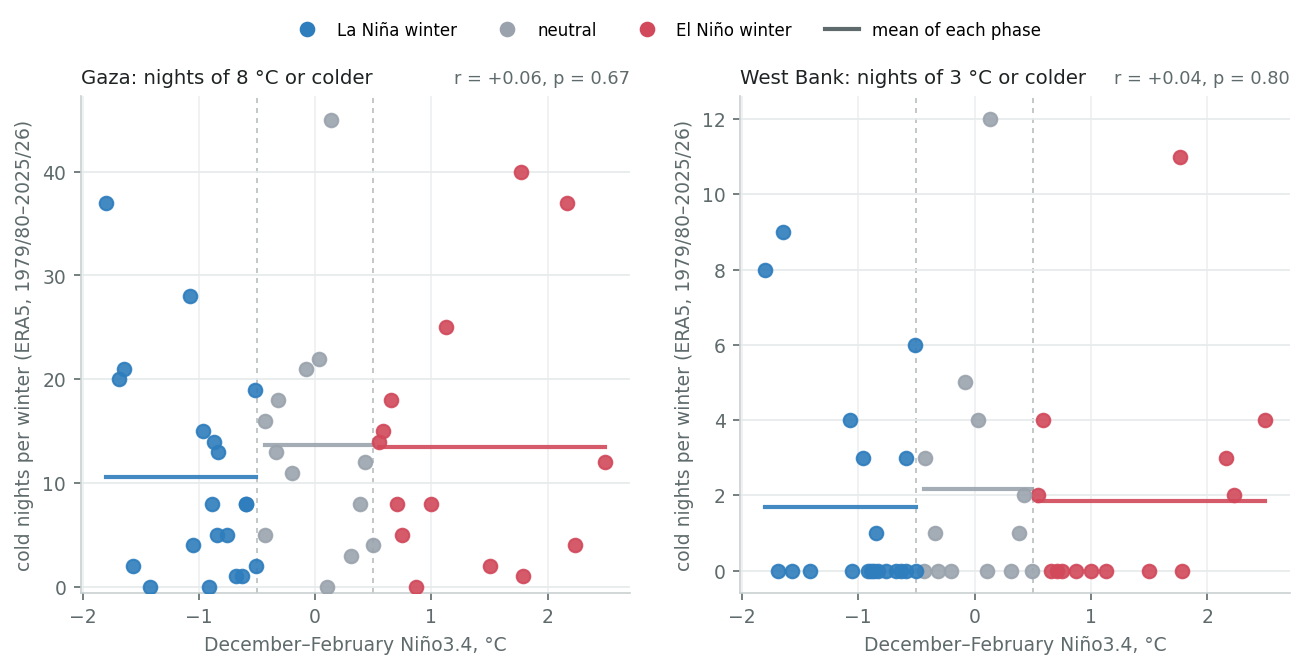
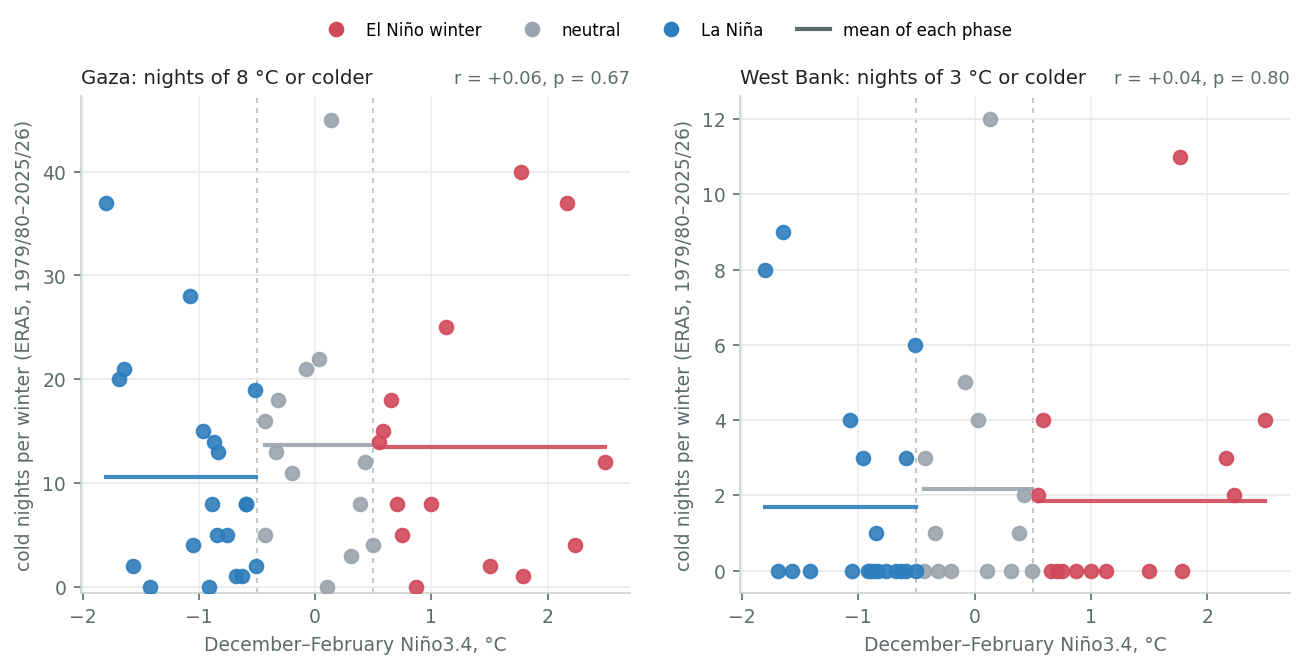
Storms, cold snaps and counts by ENSO phase: fixes from review
- a West Bank entry that records no damage no longer marks its winter as having an impact
- the cold paragraph says El Niño is no guide to cold snaps, and that warmer winters have had
  fewer cold nights, instead of claiming the warm forecast says nothing
- a difference on one of three storm sizes at p 0.01-0.05 is called suggestive, and the note says
  ERA5's winters include IMERG's
- counts by winter: six counted winters are too few for a test, said plainly without a p-value
- the starred event row quotes ERA5 over the event, like its column

Changed region(s): [[0.2147, 0.0299, 0.7975, 0.0598]]

diff --git a/docs/enso/gaza-west-bank/index.html b/docs/enso/gaza-west-bank/index.html
@@ -318,8 +318,8 @@ h3.area{font-size:17px;margin:28px 0 8px;padding:2px 0 2px 10px;border-left:4px 
 </tbody></table></div>
 <p class="small">Means per winter, by ENSO phase. The records differ in level: ERA5 spreads rain over 25 km cells and understates heavy days; IMERG is satellite-only; Jerusalem is one hill-town gauge. Compare phases within a record, not across records.</p>
 <div class="areahead"><h3 class="area" id="cold-daily">Both areas: cold snaps and El Niño<a class="anchor" href="#cold-daily" aria-hidden="true" tabindex="-1"></a></h3><p class="alt">Also in this section: <a href="#gaza-daily">Gaza</a> · <a href="#west-bank-daily">West Bank</a></p></div>
-<p>Cold snaps show no link to El Niño in either area. Since 1979 the number of cold nights in a winter does not follow winter Niño3.4: Gaza, nights of 8 °C or colder, r = +0.06 (p = 0.67); West Bank, nights of 3 °C or colder, r = +0.04 (p = 0.80). Nor do the winter's coldest night, the number of cold snaps of two nights or more, or the night count two degrees either side of each threshold (correlations between -0.09 and +0.13). A warm-winter forecast therefore says nothing about whether cold snaps will come.</p>
-<figure><img src="cold_enso.png" alt="Cold nights per winter against winter Niño3.4, Gaza and the West Bank"><figcaption>Each dot is one winter, 1979/80–2025/26: nights whose ERA5 minimum over the area was at or below the threshold, against that winter's Niño3.4. <details class="note"><summary>More about this figure</summary><span>Lines: the mean of each phase (Gaza 13.5 in El Niño winters, 13.7 neutral, 10.6 La Niña; West Bank 1.9 in El Niño winters, 2.2 neutral, 1.7 La Niña). ERA5 is an area mean and runs warmer than the coldest places.</span></details></figcaption></figure>
+<p>Cold snaps show no link to El Niño in either area. Since 1979/80 the number of cold nights in a winter does not follow winter Niño3.4: Gaza, nights of 8 °C or colder, r = +0.06 (p = 0.67); West Bank, nights of 3 °C or colder, r = +0.04 (p = 0.80). Nor do the winter's coldest night, the number of cold snaps of two nights or more, or the night count two degrees either side of each threshold (correlations between -0.09 and +0.13). El Niño is therefore no guide to cold snaps. The forecasts' warm signal is a separate matter: warmer winters have had fewer cold nights (r = -0.86 for Gaza and -0.64 for the West Bank between a winter's cold nights and its December–February mean night temperature). Cold deaths, though, have followed shelter more than temperature (section 5).</p>
+<figure><img src="cold_enso.png" alt="Cold nights per winter against winter Niño3.4, Gaza and the West Bank"><figcaption>Each dot is one winter, 1979/80–2025/26: nights whose ERA5 minimum over the area was at or below the threshold, against that winter's Niño3.4. <details class="note"><summary>More about this figure</summary><span>Lines: the mean of each phase (Gaza 13.5 in El Niño winters, 13.7 neutral, 10.6 La Niña; West Bank 1.9 in El Niño winters, 2.2 neutral, 1.7 La Niña). ERA5 is an area mean and runs warmer than the coldest places; Gaza's cells are partly sea and rarely reach 5 °C, hence its higher threshold.</span></details></figcaption></figure>
 <h2 id="impacts">4. What winter weather does<a class="anchor" href="#impacts" aria-hidden="true" tabindex="-1"></a></h2>
 <div class="areahead"><h3 class="area" id="gaza-impacts">Gaza<a class="anchor" href="#gaza-impacts" aria-hidden="true" tabindex="-1"></a></h3><p class="alt">Also in this section: <a href="#west-bank-impacts">West Bank</a></p></div>
 <p>As of September 2026 about 1.7 million people live in roughly 1,600 displacement sites, and 65 per cent of households live in tents or makeshift shelters. Last winter 71 per cent of households were flooded at least once, and 83 per cent of those in tents (Shelter Cluster). The inter-agency flood-exposure outlook for 2026/27 puts 989 of 1,764 assessed sites in medium- or high-risk areas, and 451 sites holding about 464,000 people in high-risk areas (IOM, Site Management Cluster and Shelter Cluster, September 2026; OCHA). That exposure map uses terrain and past flooding, not rainfall. No published analysis links rainfall amounts to tent flooding in Gaza, and no rain gauge inside Gaza reports internationally. The table below is a first pass at that link: every dated winter impact in UN reporting since October 2023, with the weather over Gaza on those days.</p>
@@ -365,8 +365,8 @@ h3.area{font-size:17px;margin:28px 0 8px;padding:2px 0 2px 10px;border-left:4px 
 </tbody></table></div>
 
 <h4 id="gaza-impacts-counts-by-winter-and-enso-phase">Counts by winter and ENSO phase<a class="anchor" href="#gaza-impacts-counts-by-winter-and-enso-phase" aria-hidden="true" tabindex="-1"></a></h4>
-<figure><img src="gaza/winter_counts.png" alt="People reported affected by winter weather in Gaza, by winter and ENSO phase"><figcaption>People reported affected in each winter, coloured by the winter's ENSO phase; the line on 2025/26 reaches the Shelter Cluster's monthly snapshots. Counts and sources are in the tables of section 5. The two tallest bars are La Niña winters because they come after October 2023, not because of the phase.</figcaption></figure>
-<p>The counts do not separate by ENSO phase. Before October 2023, the three counted El Niño winters (20, 501 and 800 people) and the three counted neutral winters (112, 560 and 21,000 people) cannot be told apart (p = 0.70 for El Niño against the rest), and no La Niña winter has a count. Since October 2023 both counted winters were La Niña winters, and the El Niño winter of 2023/24 has reports but no number. An average per phase would only restate the change since October 2023, so none is given.</p>
+<figure><img src="gaza/winter_counts.png" alt="People reported affected by winter weather in Gaza, by winter and ENSO phase"><figcaption>People reported affected in each winter, coloured by the winter's ENSO phase; the line on 2025/26 reaches the Shelter Cluster's monthly snapshots. Counts and sources are in the tables of section 5. The two tallest bars are La Niña winters because they fall in the period since October 2023, not because of the phase.</figcaption></figure>
+<p>The counts do not separate by ENSO phase. Before October 2023, the three counted El Niño winters (20, 501 and 800 people) and the three counted neutral winters (110, 560 and 21,000 people) overlap, and six counted winters are too few for any test to separate them; no La Niña winter has a count. Since October 2023 both counted winters were La Niña winters, and the El Niño winter of 2023/24 has reports but no number. An average per phase would only restate the change since October 2023, so none is given.</p>
 <div class="areahead"><h3 class="area" id="west-bank-impacts">West Bank<a class="anchor" href="#west-bank-impacts" aria-hidden="true" tabindex="-1"></a></h3><p class="alt">Also in this section: <a href="#gaza-impacts">Gaza</a></p></div>
 <p>Winter weather does much less harm in the West Bank than in Gaza, and what it does is poorly counted. The record has two large events from before October 2023:</p>
 <ul>
@@ -409,7 +409,7 @@ h3.area{font-size:17px;margin:28px 0 8px;padding:2px 0 2px 10px;border-left:4px 
 
 <h4 id="west-bank-impacts-counts-by-winter-and-enso-phase">Counts by winter and ENSO phase<a class="anchor" href="#west-bank-impacts-counts-by-winter-and-enso-phase" aria-hidden="true" tabindex="-1"></a></h4>
 <figure><img src="west-bank/winter_counts.png" alt="People reported affected by winter weather in the West Bank, by winter and ENSO phase"><figcaption>Every count in the tables above, one bar per winter, coloured by the winter's ENSO phase. The counts are of different kinds, named on each bar: people displaced (OCHA), families assisted by the Palestine Red Crescent Society (IFRC), tents and shelters damaged (OCHA; the line reaches the Shelter Cluster's count), and one media count. <details class="note"><summary>More about this figure</summary><span>Households at 4.8 people (PCBS census 2017).</span></details></figcaption></figure>
-<p>The counts do not separate by ENSO phase. The two counted El Niño winters (48 and 2,800 people), the three counted neutral winters (300, 640 and 5,200 people) and the one counted La Niña winter (300 people) cannot be told apart (p = 0.81 for El Niño against the rest). Six winters have any count, of different kinds and spread over all three phases: too few and too mixed to test. No average per phase is given.</p>
+<p>The counts do not separate by ENSO phase. The two counted El Niño winters (48 and 2,800 people), the three counted neutral winters (300, 640 and 5,200 people) and the one counted La Niña winter (300 people) overlap, and six counted winters are too few for any test to separate them. The counts are also of different kinds, so no average per phase is given.</p>
 <h2 id="range">5. What this winter could bring<a class="anchor" href="#range" aria-hidden="true" tabindex="-1"></a></h2>
 <div class="areahead"><h3 class="area" id="gaza-range">Gaza<a class="anchor" href="#gaza-range" aria-hidden="true" tabindex="-1"></a></h3><p class="alt">Also in this section: <a href="#west-bank-range">West Bank</a></p></div><p class="inpart">In this part: <span><a href="#gaza-range-how-many-storms-a-winter-brings">How many storms a winter brings</a> ·</span> <span><a href="#gaza-range-when-the-first-storm-of-20-mm-or-more-comes">When the first storm of 20 mm or more comes</a> ·</span> <span><a href="#gaza-range-how-big-a-week-of-rain-is">How big a week of rain is</a> ·</span> <span><a href="#gaza-range-what-one-storm-of-each-kind-did-last-winter">What one storm of each kind did last winter</a> ·</span> <span><a href="#gaza-range-last-winter-in-numbers">Last winter in numbers</a> ·</span> <span><a href="#gaza-range-exposure-then-and-now">Exposure then and now</a> ·</span> <span><a href="#gaza-range-deaths">Deaths</a> ·</span> <span><a href="#gaza-range-rain-and-reported-impact-winter-by-winter">Rain and reported impact, winter by winter</a> ·</span> <span><a href="#gaza-range-storm-for-storm-before-and-since-october-2023">Storm for storm, before and since October 2023</a> ·</span> <span><a href="#gaza-range-what-the-october-forecast-implies-for-octoberdecember">What the October forecast implies for October–December</a> ·</span> <span><a href="#gaza-range-scenarios-for-winter-2026-27">Scenarios for winter 2026/27</a></span></p>
 <p>The question for planners is what this winter could do. The record cannot answer that with a forecast: there is one well-documented winter, reporting that changed every year, and a population whose exposure keeps changing. What it can do is bound the answer. This section separates the weather (how many storms, how big, how early, and what El Niño does or does not change) from what each kind of storm did last winter, and then uses last winter as two reference points. It ends with the longer record: every winter since 2008/09 on one row, the same sizes of storm before and since October 2023, and three scenarios for this winter scaled from last winter's counts.</p>
@@ -417,13 +417,13 @@ h3.area{font-size:17px;margin:28px 0 8px;padding:2px 0 2px 10px;border-left:4px 
 <h4 id="gaza-range-how-many-storms-a-winter-brings">How many storms a winter brings<a class="anchor" href="#gaza-range-how-many-storms-a-winter-brings" aria-hidden="true" tabindex="-1"></a></h4>
 <p>Over the 28 winters of IMERG (1998/99–2025/26), a Gaza winter brought on average 6 storms whose wettest day reached 10 mm (in most winters 4–8), 3 that reached 20 mm (1–4), and a storm of 50 mm or more, like Byron, in 50 per cent of winters. El Niño winters brought slightly more of the smaller storms (7 of 10 mm or more, against 5 in La Niña winters) but not more of the largest: 4 of 8 El Niño winters had a storm of 50 mm or more, against 6 of 14 La Niña winters. Last winter, with 7, 4 and 1, was among the more active.</p>
 <figure><img src="gaza/storm_tiers.png" alt="Rain storms per winter by size"><figcaption>A storm is a run of rainy days (1 mm or more), merged across lulls of up to two dry days, sized by its wettest day over Gaza (IMERG, area-weighted). <details class="note"><summary>More about this figure</summary><span>Byron, 8–17 December 2025, counts as one storm (rain from 8 December, the storm proper from 10 December). ERA5 is not used for the largest storms: its 25 km cells smooth them so much that it gives Byron a wettest day of 18 mm, which would not place it among the record's 14 largest storms.</span></details></figcaption></figure>
-<p>Counted by a storm's total rain, El Niño winters have brought 2–7 storms of 25 mm or more (4.6 on average), against 2–6 in neutral winters (4.5) and 1–5 in La Niña winters (3.3). On IMERG's eight El Niño winters the difference from the other 20 is within chance (p = 0.17); in ERA5 since 1979, with 14 El Niño winters and thresholds matched to IMERG's, the gap is 1.6 storms a winter and is unlikely to be chance (p &lt; 0.01). The bigger storms do not follow the phase: 50 mm or more came 0–2 times in an El Niño winter and 0–3 in the others, and a storm of 100 mm or more came in 3 of 8 El Niño winters and 6 of 20 others. These are past ranges, not a forecast.</p>
+<p>Counted by a storm's total rain, El Niño winters have brought 2–7 storms of 25 mm or more (4.6 on average), against 2–6 in neutral winters (4.5) and 1–5 in La Niña winters (3.3). On IMERG's eight El Niño winters the difference from the other 20 is within chance (p = 0.17); in ERA5 since 1979/80, with 14 El Niño winters and thresholds matched to IMERG's, the gap is 1.6 storms a winter and is unlikely to be chance (p &lt; 0.01). The bigger storms do not follow the phase: 50 mm or more came 0–2 times in an El Niño winter and 0–3 in the others, and a storm of 100 mm or more came in 3 of 8 El Niño winters and 6 of 20 others. These are past ranges, not a forecast.</p>
 <div class="tscroll"><table><thead><tr><th>Storms per winter with a total of</th><th class="num">El Niño<br><span class="small">8 winters</span></th><th class="num">Neutral<br><span class="small">6 winters</span></th><th class="num">La Niña<br><span class="small">14 winters</span></th><th class="num">El Niño against the rest<br><span class="small">IMERG · ERA5</span></th></tr></thead><tbody>
 <tr><td>25 mm or more</td><td class="num">2–7 <span class="small">(mean 4.6)</span></td><td class="num">2–6 <span class="small">(mean 4.5)</span></td><td class="num">1–5 <span class="small">(mean 3.3)</span></td><td class="num">p = 0.17 · p &lt; 0.01</td></tr>
 <tr><td>50 mm or more</td><td class="num">0–2 <span class="small">(mean 1.4)</span></td><td class="num">1–3 <span class="small">(mean 2.2)</span></td><td class="num">0–3 <span class="small">(mean 1.1)</span></td><td class="num">p = 0.96 · p = 0.15</td></tr>
 <tr><td>100 mm or more</td><td class="num">0–1 <span class="small">(mean 0.4)</span></td><td class="num">0–1 <span class="small">(mean 0.3)</span></td><td class="num">0–1 <span class="small">(mean 0.3)</span></td><td class="num">p = 0.73 · p = 0.44</td></tr>
 </tbody></table></div>
-<p class="small">Fewest to most storms per winter, IMERG 1998/99–2025/26.</p><details class="note"><summary>Notes and method</summary><p class="small">A storm is a run of rainy days as defined above, here sized by its total rain over Gaza. The last column tests El Niño winters against all others (Mann–Whitney): first on IMERG, then on ERA5 1979/80–2025/26 with thresholds that give the same number of storms as IMERG's over the shared years (17, 39, 61 mm).</p></details>
+<p class="small">Fewest to most storms per winter, IMERG 1998/99–2025/26.</p><details class="note"><summary>Notes and method</summary><p class="small">A storm is a run of rainy days as defined above, here sized by its total rain over Gaza. The last column tests El Niño winters against all others (Mann–Whitney): first on IMERG, then on ERA5 1979/80–2025/26 with thresholds that give the same number of storms as IMERG's over the shared years (17, 39, 61 mm); that equalizes the counts, not the storms themselves. ERA5's winters include IMERG's, so the two tests are not independent.</p></details>
 <h4 id="gaza-range-when-the-first-storm-of-20-mm-or-more-comes">When the first storm of 20 mm or more comes<a class="anchor" href="#gaza-range-when-the-first-storm-of-20-mm-or-more-comes" aria-hidden="true" tabindex="-1"></a></h4>
 <p>This is where El Niño may matter, though not by much more than chance on eight winters. In 5 of the 8 El Niño winters of the IMERG record, the first storm of 20 mm or more came before 1 December, against 12 of 28 winters overall, and the forecasts put this year's wet anomaly in October–December. Damage does not wait for a big storm, though. In each of the last three winters the first weather damage was reported in mid to late November (13–14 November 2023, 24–25 November 2024, 14–15 November 2025), and in two of them that came before the winter's first 20 mm storm. Last winter's first storm, with 22 mm, damaged about 13,000 tents.</p>
 
@@ -529,7 +529,7 @@ h3.area{font-size:17px;margin:28px 0 8px;padding:2px 0 2px 10px;border-left:4px 
 <tr><td style="white-space:nowrap">14 Mar 2026</td><td>rain, wind</td><td class="num" style="white-space:nowrap">2 mm</td><td class="num" style="white-space:nowrap">about 4,300</td><td class="small">894 households in displacement sites after a sandstorm and strong winds, Site Management Cluster</td><td class="small" style="white-space:nowrap"><a href="https://www.ochaopt.org/content/humanitarian-situation-report-19-march-2026">OCHA Humanitarian Situation Report, 19 Mar 2026</a></td></tr>
 <tr><td style="white-space:nowrap">25–26 Mar 2026</td><td>rain</td><td class="num" style="white-space:nowrap">26 mm</td><td class="num" style="white-space:nowrap">3,000</td><td class="small">more than 3,000 displaced people, Site Management Cluster</td><td class="small" style="white-space:nowrap"><a href="https://www.ochaopt.org/content/humanitarian-situation-report-2-april-2026">OCHA Humanitarian Situation Report, 2 Apr 2026</a></td></tr>
 </tbody></table></div>
-<p class="small">“About”: the source gives households or families, converted at 5.6 people before October 2023 and 4.8 since.</p><details class="note"><summary>Notes and method</summary><p class="small">Rain: IMERG over Gaza, from the day before the event to its last day. * IMERG missed this storm's rain: ERA5 has 12 mm. Wind and cold are not plotted: ERA5's area-mean wind and night minimum do not resolve the gusts and the cold in tents that the reports describe; the hazard column is from the reports. Events reported without a number, and counts of assistance delivered with no rain date, are in the tables of section 4 but not here.</p></details>
+<p class="small">“About”: the source gives households or families, converted at 5.6 people before October 2023 and 4.8 since.</p><details class="note"><summary>Notes and method</summary><p class="small">Rain: IMERG over Gaza, from the day before the event to its last day. * IMERG missed this storm's rain: ERA5 has 16 mm over the event. Wind and cold are not plotted: ERA5's area-mean wind and night minimum do not resolve the gusts and the cold in tents that the reports describe; the hazard column is from the reports. Events reported without a number, and counts of assistance delivered with no rain date, are in the tables of section 4 but not here.</p></details>
 <p>Two things changed. More storms do harm: 7 of the 35 storms of 20–50 mm left an entry in the event catalogue before October 2023, and all 5 since. Three events with less than 10 mm of rain (high tides and wind), with no counterpart before October 2023, were counted at 3,800–34,000 people each. And each does more: the counts are tens to hundreds of times higher, about 18 times on medians (6,200 people against 350) and, as a scale check allowing for each storm's rain, about 120 times (95 per cent interval about 11 to 1,300, on 16 events). Byron (about 150 mm in IMERG; at least 235,000 people) had 11 times the count of Storm Alexa (about 190 mm; homes of 21,000 people damaged, about 10,000 evacuated), with less rain.</p><details class="note"><summary>More detail</summary><p>The scale check is a model fitted to the 16 events with a dated count: one slope on the storm's rain total, plus a step in October 2023. Without the largest storm of each period the step is about 46 times; on geometric means, ignoring rain, about 34. It treats a high-tide event with 3 mm of rain as a very small rainstorm, and takes the storm of 12–16 January 2026 at the 3 mm that IMERG recorded. Before October 2023 only the largest impacts were counted at all (seven counts in 15 winters), which pulls the ratio down; closer counting since pulls it up. Since October 2023 rain alone does not order the counts: across the nine dated counts, people affected and rain are barely related (rank correlation +0.28 with the wettest day), though among the five with a day of 10 mm or more the bigger storms were counted higher (+0.80).</p></details>
 <p><strong>What the multiplier mixes.</strong> It is a ratio of reported counts, and three changes are folded into it: how people are sheltered (tents and damaged buildings, many on flood-prone ground, where before they had houses), which is the real change in vulnerability; what is counted (people evacuated or with damaged homes then, people whose tents flooded now); and how closely (occasional situation reports then, daily site alerts last winter). The record cannot separate them, which is why section 4 warns that counts cannot be compared across winters like for like. Read “tens to hundreds of times” as the scale of the change, not a measurement of it.</p>
 
@@ -552,13 +552,13 @@ h3.area{font-size:17px;margin:28px 0 8px;padding:2px 0 2px 10px;border-left:4px 
 <h4 id="west-bank-range-how-many-storms-a-winter-brings">How many storms a winter brings<a class="anchor" href="#west-bank-range-how-many-storms-a-winter-brings" aria-hidden="true" tabindex="-1"></a></h4>
 <p>Over the 28 winters of IMERG (1998/99–2025/26), a West Bank winter brought on average 6 storms whose wettest day reached 10 mm (in most winters 4–8), 3 that reached 20 mm (2–5), and a storm of 50 mm or more in 29 per cent of winters. El Niño winters brought slightly more of the smaller storms (7 of 10 mm or more, against 6 in La Niña winters) but not more of the largest: 1 of 8 El Niño winters had a storm of 50 mm or more, against 5 of 14 La Niña winters. Last winter, with 8, 7 and 2, was among the more active.</p>
 <figure><img src="west-bank/storm_tiers.png" alt="Rain storms per winter by size"><figcaption>A storm is a run of rainy days (1 mm or more), merged across lulls of up to two dry days, sized by its wettest day over the West Bank (IMERG, area-weighted). </figcaption></figure>
-<p>Counted by a storm's total rain, El Niño winters have brought 3–6 storms of 25 mm or more (5.5 on average), against 2–6 in neutral winters (4.2) and 2–8 in La Niña winters (4.6). On IMERG's eight El Niño winters the difference from the other 20 is unlikely to be chance (p = 0.03); in ERA5 since 1979, with 14 El Niño winters and thresholds matched to IMERG's, the gap is 1.4 storms a winter and is unlikely to be chance (p = 0.04). The bigger storms do not follow the phase: 50 mm or more came 1–4 times in an El Niño winter and 1–6 in the others, and a storm of 100 mm or more came in 5 of 8 El Niño winters and 10 of 20 others. These are past ranges, not a forecast.</p>
+<p>Counted by a storm's total rain, El Niño winters have brought 3–6 storms of 25 mm or more (5.5 on average), against 2–6 in neutral winters (4.2) and 2–8 in La Niña winters (4.6). On IMERG's eight El Niño winters the difference from the other 20 is suggestive, with three sizes tested (p = 0.03); in ERA5 since 1979/80, with 14 El Niño winters and thresholds matched to IMERG's, the gap is 1.4 storms a winter and is suggestive, with three sizes tested (p = 0.04). The bigger storms do not follow the phase: 50 mm or more came 1–4 times in an El Niño winter and 1–6 in the others, and a storm of 100 mm or more came in 5 of 8 El Niño winters and 10 of 20 others. These are past ranges, not a forecast.</p>
 <div class="tscroll"><table><thead><tr><th>Storms per winter with a total of</th><th class="num">El Niño<br><span class="small">8 winters</span></th><th class="num">Neutral<br><span class="small">6 winters</span></th><th class="num">La Niña<br><span class="small">14 winters</span></th><th class="num">El Niño against the rest<br><span class="small">IMERG · ERA5</span></th></tr></thead><tbody>
 <tr><td>25 mm or more</td><td class="num">3–6 <span class="small">(mean 5.5)</span></td><td class="num">2–6 <span class="small">(mean 4.2)</span></td><td class="num">2–8 <span class="small">(mean 4.6)</span></td><td class="num">p = 0.03 · p = 0.04</td></tr>
 <tr><td>50 mm or more</td><td class="num">1–4 <span class="small">(mean 2.8)</span></td><td class="num">1–5 <span class="small">(mean 3.0)</span></td><td class="num">1–6 <span class="small">(mean 2.1)</span></td><td class="num">p = 0.38 · p = 0.16</td></tr>
 <tr><td>100 mm or more</td><td class="num">0–2 <span class="small">(mean 0.8)</span></td><td class="num">0–2 <span class="small">(mean 0.8)</span></td><td class="num">0–2 <span class="small">(mean 0.6)</span></td><td class="num">p = 0.70 · p = 0.11</td></tr>
 </tbody></table></div>
-<p class="small">Fewest to most storms per winter, IMERG 1998/99–2025/26.</p><details class="note"><summary>Notes and method</summary><p class="small">A storm is a run of rainy days as defined above, here sized by its total rain over the West Bank. The last column tests El Niño winters against all others (Mann–Whitney): first on IMERG, then on ERA5 1979/80–2025/26 with thresholds that give the same number of storms as IMERG's over the shared years (21, 37, 71 mm).</p></details>
+<p class="small">Fewest to most storms per winter, IMERG 1998/99–2025/26.</p><details class="note"><summary>Notes and method</summary><p class="small">A storm is a run of rainy days as defined above, here sized by its total rain over the West Bank. The last column tests El Niño winters against all others (Mann–Whitney): first on IMERG, then on ERA5 1979/80–2025/26 with thresholds that give the same number of storms as IMERG's over the shared years (21, 37, 71 mm); that equalizes the counts, not the storms themselves. ERA5's winters include IMERG's, so the two tests are not independent.</p></details>
 <h4 id="west-bank-range-when-the-first-storm-of-20-mm-or-more-comes">When the first storm of 20 mm or more comes<a class="anchor" href="#west-bank-range-when-the-first-storm-of-20-mm-or-more-comes" aria-hidden="true" tabindex="-1"></a></h4>
 <p>In 7 of the 8 El Niño winters of the IMERG record, the first storm of 20 mm or more over the West Bank came before 1 December, against 14 of 28 winters overall. Against the other winters that is unlikely to be chance alone (p ≈ 0.03), though eight winters is a small sample. Last winter's most damaging West Bank event, on 28–30 December 2025, came in a December that gave Jerusalem more than 237 mm, its wettest December since 2013 according to the Palestinian Meteorological Department (via Al Jazeera).</p>
 

diff --git a/levant_deep_dive.py b/levant_deep_dive.py
@@ -1003,6 +1003,8 @@ def cold_by_enso(tmin: pd.Series, djf: pd.Series, thr: float, lo: int = SPLIT, h
     for k, v in m.items():
         out[f"r_{k}"], out[f"p_{k}"] = (float(x) for x in stats.pearsonr(n, v))
     out["r_other"] = {thr + d: float(stats.pearsonr(n, count(thr + d))[0]) for d in (-2, 2)}
+    d_ = tmin[tmin.index.month.isin([12, 1, 2])].dropna()
+    out["r_warm"] = float(stats.pearsonr(d_.groupby(season_year(d_.index)).mean().reindex(yrs), m["nights"])[0])   # cold nights against the winter's mean
     return out
 
 
@@ -1015,7 +1017,7 @@ def winter_counts(spec: dict, wi: dict | None, djf: pd.Series) -> dict | None:
         rows = pd.DataFrame(dict(people=S.people, people_hi=S.people_hi, n_ev=S.n_ev, kind=""))
         test = rows.loc[:SINCE - 1]; split = SINCE
     elif spec.get("winter_counts"):
-        hh = float(spec.get("hh_size", 4.8)); ev = spec.get("prewar", []) + spec.get("impacts", [])
+        hh = float(spec.get("hh_size", 4.8)); ev = [e for e in spec.get("prewar", []) + spec.get("impacts", []) if not e.get("no_impact")]
         sy = pd.Series(season_year(pd.DatetimeIndex([e["start"] for e in ev])))
         yrs = range(int(sy.min()), 2026)
         rows = pd.DataFrame(dict(people=np.nan, people_hi=np.nan, n_ev=sy.value_counts().reindex(yrs, fill_value=0).values, kind=""), index=yrs)
@@ -1031,7 +1033,9 @@ def winter_counts(spec: dict, wi: dict | None, djf: pd.Series) -> dict | None:
     c = test.dropna(subset=["people"]); c = c.assign(phase=rows.phase.reindex(c.index))
     en, rest = c[c.phase == "El Niño"].people, c[c.phase != "El Niño"].people
     p = float(stats.mannwhitneyu(en, rest, alternative="two-sided").pvalue) if len(en) >= 2 and len(rest) >= 2 else np.nan
-    return dict(rows=rows, split=split, p=p, n_test=len(c), by_phase={g: sorted(c[c.phase == g].people) for g in ("El Niño", "Neutral", "La Niña")})
+    drv = wi["S"].derived.reindex(c.index).fillna(False) if wi is not None else pd.Series(True, index=c.index)     # shown rounded where converted
+    return dict(rows=rows, split=split, p=p, n_test=len(c),
+                by_phase={g: sorted(zip(c[c.phase == g].people, drv[c.phase == g])) for g in ("El Niño", "Neutral", "La Niña")})
 
 
 def cold_stats(tmin: pd.Series, djf: pd.Series, lo: int = SPLIT, hi: int = 2025) -> dict:
@@ -1318,7 +1322,7 @@ def load_events(path: Path, imerg: pd.DataFrame, era5: pd.DataFrame) -> pd.DataF
         a, b = r.start - pd.Timedelta(days=1), r.end
         w, x = imerg.loc[a:b], era5.loc[a:b]
         rows.append(dict(im_max=float(w.pr.max()) if len(w) else np.nan, im_sum=float(w.pr.sum()) if len(w) else np.nan,
-                         era5_max=float(x.pr.max()) if len(x) else np.nan,
+                         era5_max=float(x.pr.max()) if len(x) else np.nan, era5_sum=float(x.pr.sum()) if len(x) else np.nan,
                          tmin=float(x.tmin.min()) if len(x) else np.nan, wmax=float(x.wmax.max()) if len(x) else np.nan))
     ev = pd.concat([ev, pd.DataFrame(rows, index=ev.index)], axis=1)
     scope = ev["hh_affected_scope"].fillna("").str.lower()
@@ -1649,6 +1653,7 @@ def fig_event_hazards(wi: dict, st: dict, out: Path) -> None:
             f"{_yr(en0['first'])}, and in the other {ot0['n']}", ha="left", va="center", fontsize=7.5, color=SRC_COL["GPCC"])
     ax.text(x0 + 0.012 * (x1 - x0), 2.0e7, "every rain spell of that size, damaging or not; a past range, not a forecast", ha="left", va="center",
             fontsize=6.8, color=C_MUTED)
+    ax.text((x0 + TOTAL_TIERS[0]) / 2, 2.2e6, f"under {TOTAL_TIERS[0]} mm:\nnot counted", ha="center", va="center", fontsize=7, color=C_MUTED, linespacing=1.15)
     for t, ytxt in zip(TOTAL_TIERS, (8.5e6, 3.4e6, 1.35e6)):             # each row starts at its own threshold
         ax.vlines(t, 10, ytxt * 1.55, color="#6f7b7c", lw=1.3, zorder=1)
         e_, o_ = bt[(t, "El Niño")], bt[(t, "other")]
@@ -1667,7 +1672,6 @@ def fig_event_hazards(wi: dict, st: dict, out: Path) -> None:
         hs.append(plt.Line2D([], [], marker="o", color=C_REGIME[True], mfc="white", mew=1.5, ls="", ms=7, label="hollow: rain IMERG missed"))
     ax.legend(handles=hs, frameon=False, fontsize=8, loc="upper center", ncol=len(hs), bbox_to_anchor=(0.5, 1.09), handletextpad=0.4, columnspacing=1.6)
     ax.grid(color="#eceff0", lw=0.8); ax.set_axisbelow(True); edd._style_ax(ax)
-    import textwrap
     fig.text(0.125, 0.0, textwrap.fill(A.event_sources, 125), fontsize=7.5, color=C_MUTED, ha="left", va="top", linespacing=1.3)
     _save(fig, out)
 
@@ -1728,9 +1732,9 @@ def fig_cold_enso(parts: list[dict], out: Path) -> None:
         ax.set_ylabel(f"cold nights per winter (ERA5, {_yr(c['lo'])}–{_yr(c['hi'])})", fontsize=9, color=C_MUTED)
         ax.set_ylim(bottom=-0.6)
         ax.grid(color="#eceff0", lw=0.8); ax.set_axisbelow(True); edd._style_ax(ax)
-    fig.legend(handles=[plt.Line2D([], [], marker="o", color=C_LN, ls="", ms=6.5, label="La Niña winter"),
+    fig.legend(handles=[plt.Line2D([], [], marker="o", color=C_EN, ls="", ms=6.5, label="El Niño winter"),
                         plt.Line2D([], [], marker="o", color=C_NEU, ls="", ms=6.5, label="neutral"),
-                        plt.Line2D([], [], marker="o", color=C_EN, ls="", ms=6.5, label="El Niño winter"),
+                        plt.Line2D([], [], marker="o", color=C_LN, ls="", ms=6.5, label="La Niña"),
                         plt.Line2D([], [], color=C_MUTED, lw=2, label="mean of each phase")],
                frameon=False, fontsize=8, loc="upper center", ncol=4, bbox_to_anchor=(0.5, 1.02))
     _save(fig, out)
@@ -1981,18 +1985,19 @@ def render_range(spec: dict, a: dict, heading: bool = True) -> str:
 
 
 def render_winter_counts(spec: dict, bars: dict) -> str:
-    """Section 4, last part for an area: the counts by winter coloured by ENSO phase, and whether the phases differ."""
-    bp = bars["by_phase"]; lst = lambda v: _join(_sig(x) if x >= 1000 else f"{x:,.0f}" for x in v)
+    """Section 4, last part for an area: the counts by winter coloured by ENSO phase, and why the phases cannot be compared."""
+    bp = bars["by_phase"]; lst = lambda v: _join((_sig(x) if (d or x >= 1000) else f"{x:,.0f}") for x, d in v)
     said = [f'the {_nword(len(bp[g]))} counted {g if g != "Neutral" else "neutral"} winter{"s" if len(bp[g]) != 1 else ""} ({lst(bp[g])} people)'
             for g in ("El Niño", "Neutral", "La Niña") if bp[g]]
+    if not said:
+        return ""
     none = [g for g in ("El Niño", "Neutral", "La Niña") if not bp[g]]
+    lead = ("Before October 2023, " + _join(said)) if bars["split"] else (_join(said)[0].upper() + _join(said)[1:])
     o = ['<h3>Counts by winter and ENSO phase</h3>',
          f'<figure><img src="winter_counts.png" alt="People reported affected by winter weather in {html.escape(A.ref)}, by winter and ENSO phase">'
          f'<figcaption>{spec.get("winter_counts_caption", "")}</figcaption></figure>',
-         f'<p>The counts do not separate by ENSO phase. ' + (("Before October 2023, " + _join(said)) if bars["split"] else (_join(said)[0].upper() + _join(said)[1:]))
-         + (' cannot be told apart' + (f' ({_pv(bars["p"])} for El Niño against the rest)' if pd.notna(bars["p"]) else '')
-            if len(said) > 1 else ' are all there is')
-         + (f', and no {_join(none)} winter has a count' if none else '') + '. ' + spec.get("winter_counts_html", "") + '</p>']
+         f'<p>The counts do not separate by ENSO phase. {lead} overlap, and {_nword(bars["n_test"])} counted winters are too few for any test to separate '
+         f'them' + (f'; no {_join(none)} winter has a count' if none else '') + '. ' + spec.get("winter_counts_html", "") + '</p>']
     return "\n".join(o)
 
 
@@ -2009,13 +2014,15 @@ def render_storm_totals(st: dict) -> str:
     t0, t1, t2 = TOTAL_TIERS; thr = st["thr_t"]
     en, ne, ln, ot = (bt[("IMERG", t0, g)] for g in ("El Niño", "Neutral", "La Niña", "other"))
     e_en, e_ot = bt[("ERA5", t0, "El Niño")], bt[("ERA5", t0, "other")]
-    chance = lambda p: "is within chance" if p >= 0.05 else "is unlikely to be chance"
+    chance = lambda p: "is within chance" if p >= 0.05 else ("is unlikely to be chance" if p < 0.01 else f"is suggestive, with {_nword(len(TOTAL_TIERS))} sizes tested")
+    gap = e_en["mean"] - e_ot["mean"]
     big_en, big_ot = bt[("IMERG", t2, "El Niño")], bt[("IMERG", t2, "other")]
     mid = bt[("IMERG", t1, "El Niño")]
     o = [f'<p>Counted by a storm\'s total rain, El Niño winters have brought {rg(en)} storms of {t0} mm or more ({en["mean"]:.1f} on average), against '
          f'{rg(ne)} in neutral winters ({ne["mean"]:.1f}) and {rg(ln)} in La Niña winters ({ln["mean"]:.1f}). On IMERG\'s {_nword(en["n"])} El Niño '
-         f'winters the difference from the other {ot["n"]} {chance(en["p"])} ({_pv(en["p"])}); in ERA5 since {e_en["first"]}, with {e_en["n"]} El Niño '
-         f'winters and thresholds matched to IMERG\'s, the gap is {e_en["mean"] - e_ot["mean"]:.1f} storms a winter and {chance(e_en["p"])} ({_pv(e_en["p"])}). '
+         f'winters the difference from the other {ot["n"]} {chance(en["p"])} ({_pv(en["p"])}); in ERA5 since {_yr(e_en["first"])}, with {e_en["n"]} El Niño '
+         f'winters and thresholds matched to IMERG\'s, ' + (f'the gap is {gap:.1f} storms a winter and' if gap > 0.05 else 'there is no gap, which')
+         + f' {chance(e_en["p"])} ({_pv(e_en["p"])}). '
          f'The bigger storms do not follow the phase: {t1} mm or more came {rg(mid)} times in an El Niño winter and {rg(bt[("IMERG", t1, "other")])} in the '
          f'others, and a storm of {t2} mm or more came in {big_en["any"]} of {big_en["n"]} El Niño winters and {big_ot["any"]} of {big_ot["n"]} others. '
          'These are past ranges, not a forecast.</p>']
@@ -2030,7 +2037,8 @@ def render_storm_totals(st: dict) -> str:
     o.append(f'<p class="small">Fewest to most storms per winter, IMERG {_yr(en["first"])}–{_yr(2025)}. A storm is a run of rainy days as defined above, here sized by '
              f'its total rain over {html.escape(A.ref)}. The last column tests El Niño winters against all others (Mann–Whitney): first on IMERG, then on ERA5 '
              f'{_yr(e_en["first"])}–{_yr(2025)} with thresholds that give the same number of storms as IMERG\'s over the shared years '
-             f'({", ".join(f"{thr[t]:.0f}" for t in TOTAL_TIERS)} mm).</p>')
+             f'({", ".join(f"{thr[t]:.0f}" for t in TOTAL_TIERS)} mm); that equalizes the counts, not the storms themselves. ERA5\'s winters include '
+             'IMERG\'s, so the two tests are not independent.</p>')
     return "\n".join(o)
 
 
@@ -2172,7 +2180,7 @@ def render_winter_impacts(spec: dict, a: dict) -> str:
     o.append('</tbody></table></div>')
     o.append(f'<p class="small">“About”: the source gives households or families, converted at {hh[False]:.1f} people before October 2023 and '
              f'{hh[True]:.1f} since. Rain: IMERG over {html.escape(A.ref)}, from the day before the event to its last day. '
-             + "".join(f'* IMERG missed this storm\'s rain: ERA5 has {r.era5_max:.0f} mm. ' for r in U[U.missed].itertuples())
+             + "".join(f'* IMERG missed this storm\'s rain: ERA5 has {r.era5_sum:.0f} mm over the event. ' for r in U[U.missed].itertuples())
              + 'Wind and cold are not plotted: ERA5\'s area-mean wind and night minimum do not resolve the gusts and the cold in tents that the reports '
              'describe; the hazard column is from the reports. Events reported without a '
              'number, and counts of assistance delivered with no rain date, are in the tables of section 4 but not here.</p>')
@@ -2899,16 +2907,20 @@ def render_combined(cspec: dict, parts: list[dict]) -> str:
             cs = [p["a"]["cold_enso"] for p in parts]
             rs = [c[k] for c in cs for k in ("r_coldest", "r_snaps")] + [r for c in cs for r in c["r_other"].values()]
             o.append(area_head("cold-daily", "Both areas: cold snaps and El Niño", key))
-            o.append('<p>Cold snaps show no link to El Niño in either area. Since ' + f'{cs[0]["lo"]}' + ' the number of cold nights in a winter does not follow winter '
+            o.append('<p>Cold snaps show no link to El Niño in either area. Since ' + _yr(cs[0]["lo"]) + ' the number of cold nights in a winter does not follow winter '
                      'Niño3.4: ' + "; ".join(f'{html.escape(p["area"].name)}, nights of {c["thr"]:g} °C or colder, r = {c["r_nights"]:+.2f} ({_pv(c["p_nights"])})'
                                            for p, c in zip(parts, cs))
                      + f'. Nor do the winter\'s coldest night, the number of cold snaps of two nights or more, or the night count two degrees either side '
-                     f'of each threshold (correlations between {min(rs):+.2f} and {max(rs):+.2f}). ' + cspec.get("cold_html", "") + '</p>')
+                     f'of each threshold (correlations between {min(rs):+.2f} and {max(rs):+.2f}). El Niño is therefore no guide to cold snaps. The '
+                     f'forecasts\' warm signal is a separate matter: warmer winters have had fewer cold nights (r = '
+                     + " and ".join(f'{c["r_warm"]:+.2f} for {html.escape(p["area"].ref)}' for p, c in zip(parts, cs))
+                     + ' between a winter\'s cold nights and its December–February mean night temperature). ' + cspec.get("cold_html", "") + '</p>')
             o.append('<figure><img src="cold_enso.png" alt="Cold nights per winter against winter Niño3.4, Gaza and the West Bank"><figcaption>Each dot is one '
                      f'winter, {_yr(cs[0]["lo"])}–{_yr(cs[0]["hi"])}: nights whose ERA5 minimum over the area was at or below the threshold, against that '
                      'winter\'s Niño3.4. Lines: the mean of each phase (' + "; ".join(
                          f'{html.escape(p["area"].name)} {c["mean"]["El Niño"]:.1f} in El Niño winters, {c["mean"]["Neutral"]:.1f} neutral, '
-                         f'{c["mean"]["La Niña"]:.1f} La Niña' for p, c in zip(parts, cs)) + '). ERA5 is an area mean and runs warmer than the coldest places.'
+                         f'{c["mean"]["La Niña"]:.1f} La Niña' for p, c in zip(parts, cs)) + '). ERA5 is an area mean and runs warmer than the coldest places; '
+                     'Gaza\'s cells are partly sea and rarely reach 5 °C, hence its higher threshold.'
                      '</figcaption></figure>')
     # 6. Farming: the areas that have it, under their own headings
     for p in parts:
